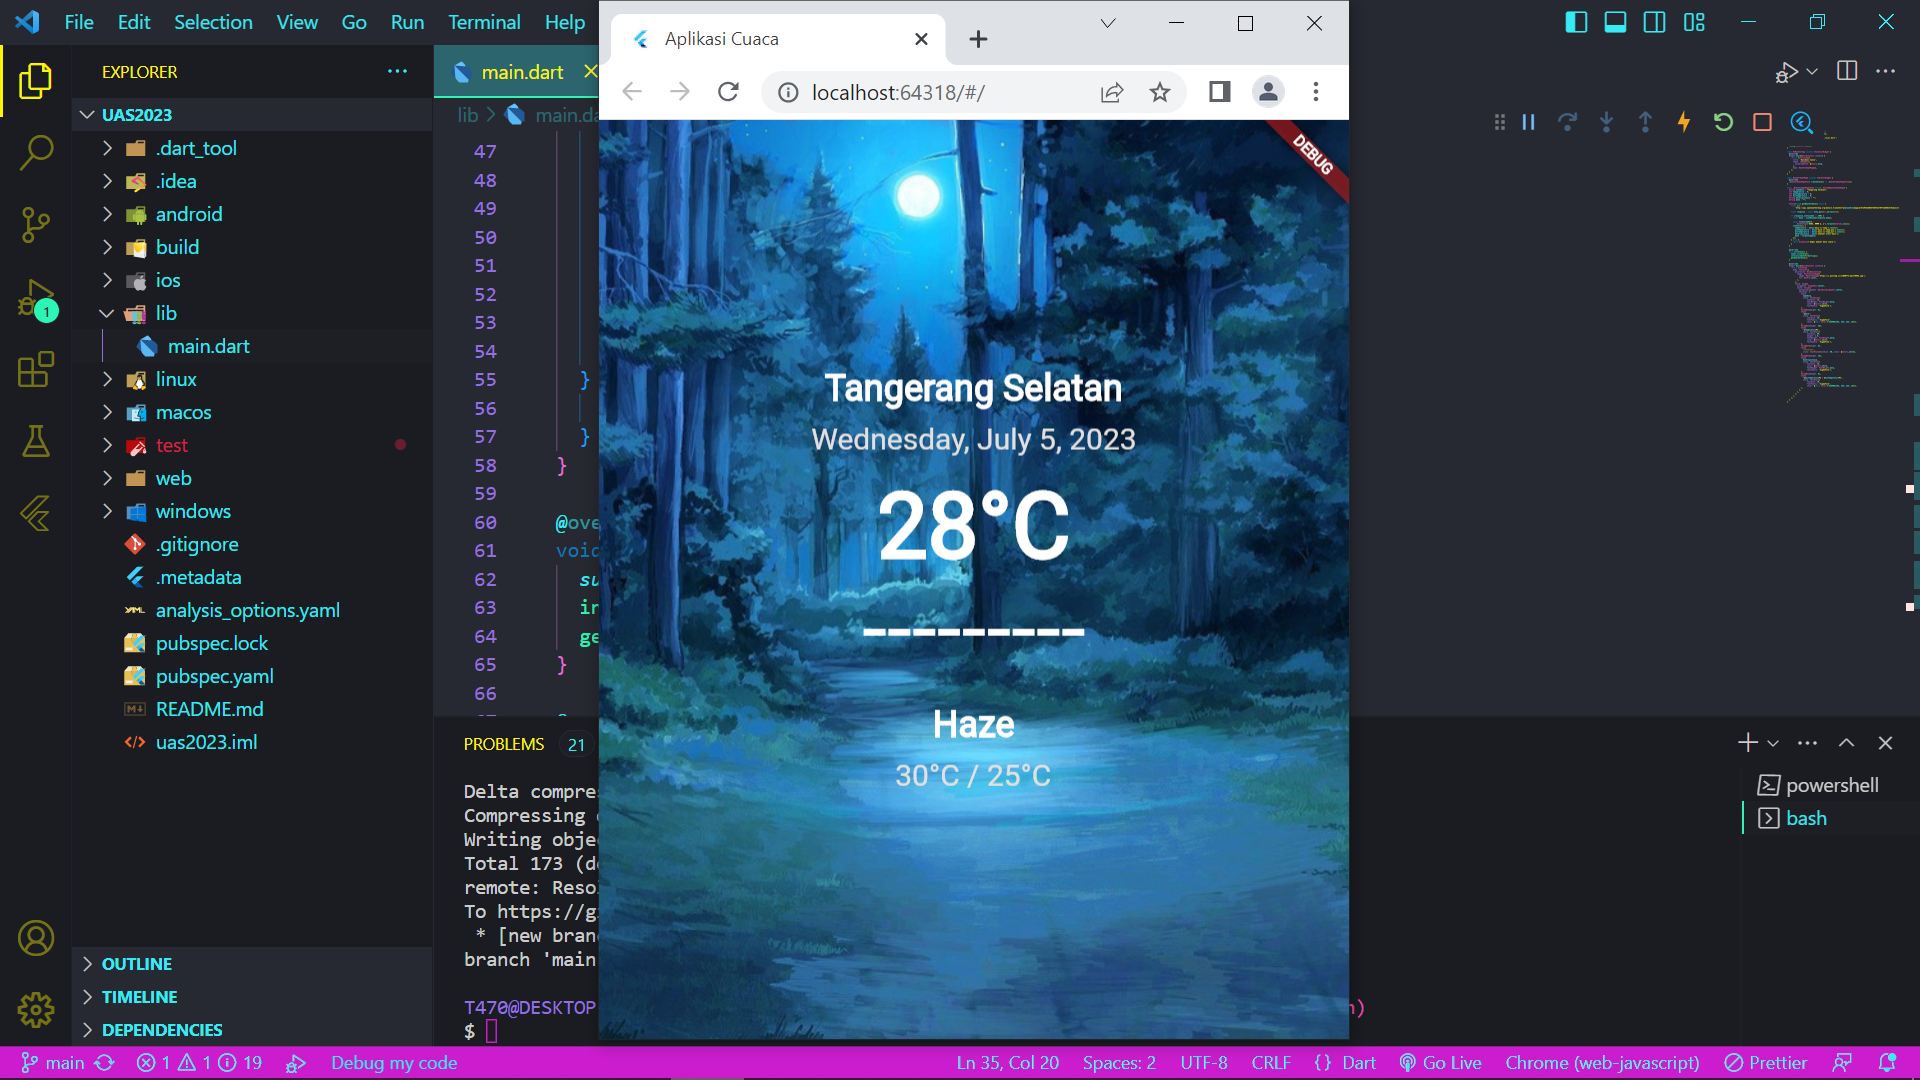
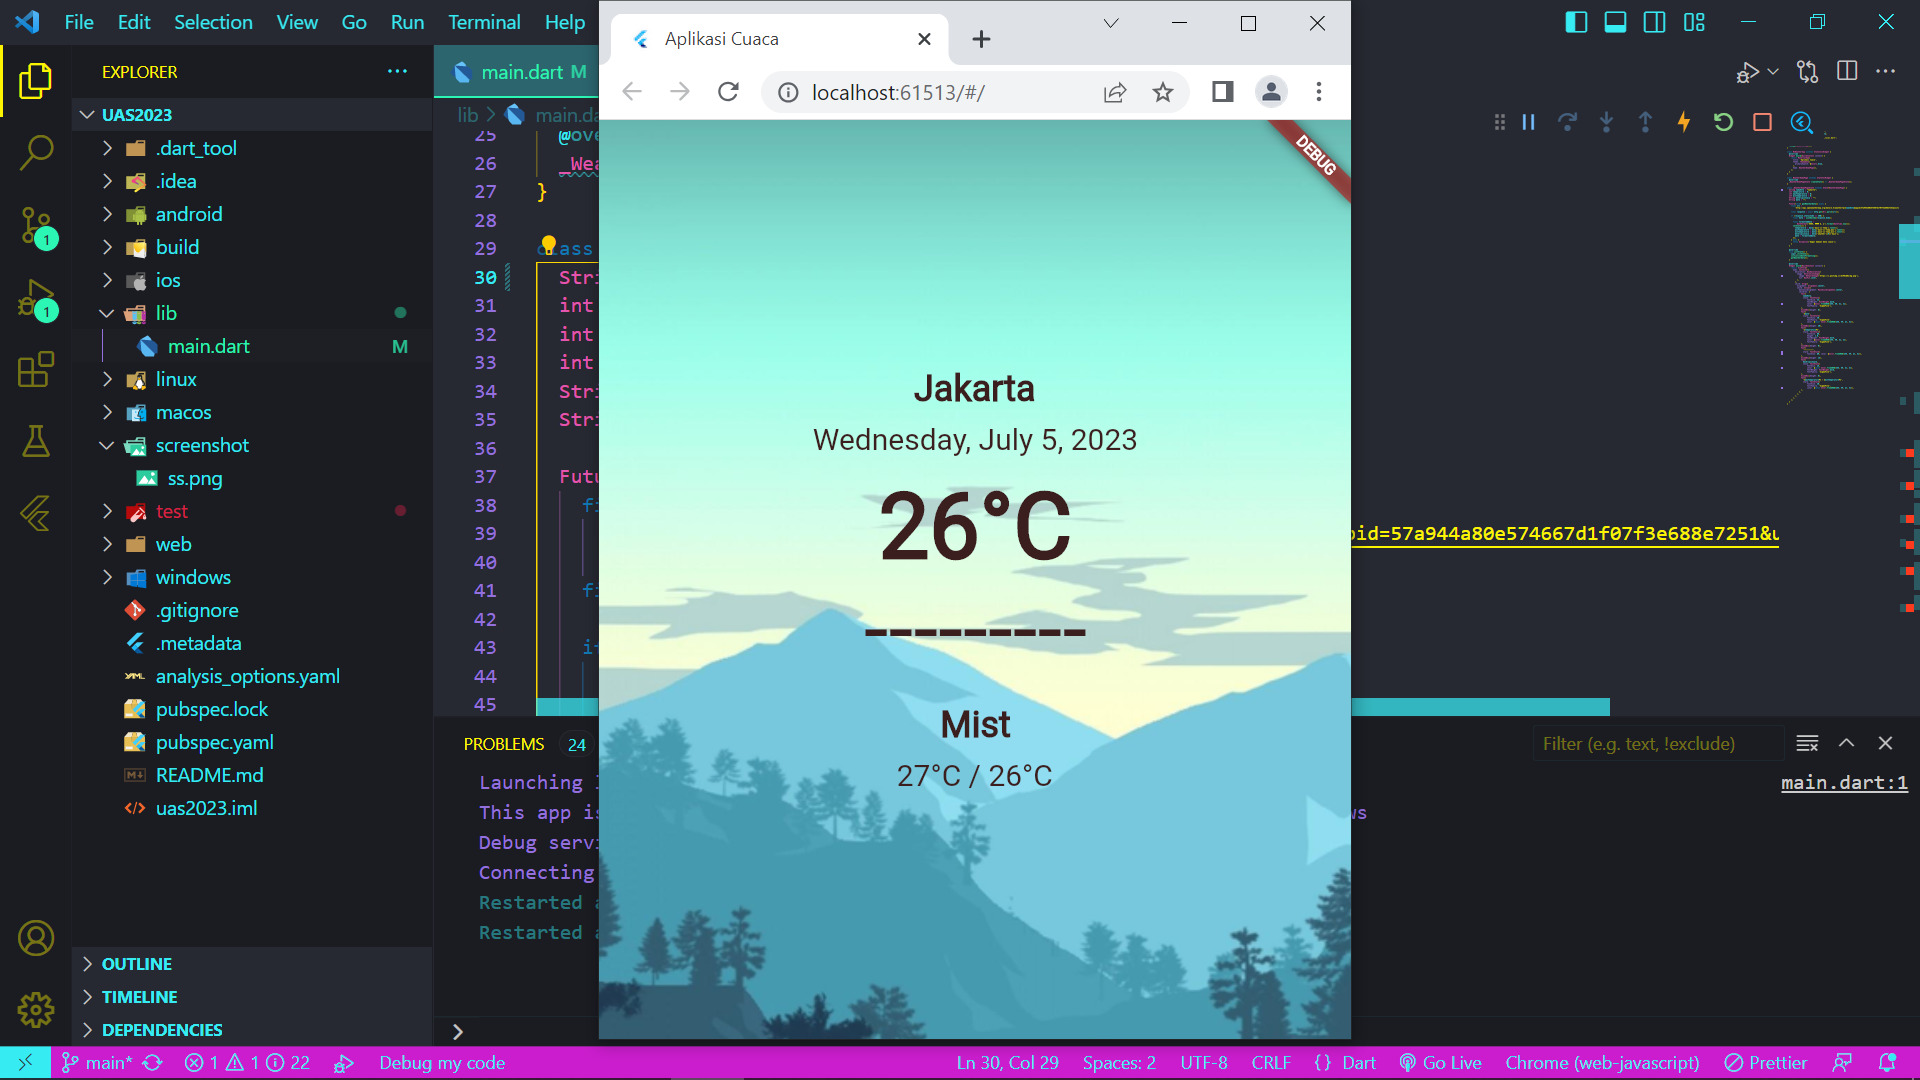
tampilan aplikasi

diff --git a/lib/main.dart b/lib/main.dart
@@ -27,7 +27,7 @@ class WeatherHomePage extends StatefulWidget {
 }
 
 class _WeatherHomePageState extends State<WeatherHomePage> {
-  String namaKota = "Tangerang Selatan";
+  String namaKota = "Jakarta";
   int temperature = 0;
   int maxTemperature = 0;
   int minTemperature = 0;
@@ -70,7 +70,7 @@ class _WeatherHomePageState extends State<WeatherHomePage> {
       body: Container(
         decoration: BoxDecoration(
           image: DecorationImage(
-            image: NetworkImage('https://i.postimg.cc/nzWD0YTC/wp7170402.jpg'),
+            image: NetworkImage('https://i.postimg.cc/d1PKxQDy/bg.png'),
             fit: BoxFit.cover,
           ),
         ),
@@ -84,7 +84,7 @@ class _WeatherHomePageState extends State<WeatherHomePage> {
                 style: TextStyle(
                     fontSize: 24,
                     fontWeight: FontWeight.bold,
-                    color: Colors.white,
+                    color: Color.fromARGB(255, 59, 31, 31),
                     fontFamily: 'SigmaFive'),
               ),
               SizedBox(height: 8),
@@ -93,7 +93,7 @@ class _WeatherHomePageState extends State<WeatherHomePage> {
                 style: TextStyle(
                     fontSize: 20,
                     fontFamily: 'SigmaFive',
-                    color: const Color.fromARGB(255, 228, 224, 224)),
+                    color: const Color.fromARGB(255, 59, 31, 31)),
               ),
               SizedBox(height: 20),
               Text(
@@ -102,20 +102,21 @@ class _WeatherHomePageState extends State<WeatherHomePage> {
                     fontSize: 60,
                     height: 1.0,
                     fontWeight: FontWeight.bold,
-                    color: Colors.white,
+                    color: Color.fromARGB(255, 59, 31, 31),
                     fontFamily: 'SigmaFive'),
               ),
               SizedBox(height: 0),
               Text(
                 '---------',
-                style: TextStyle(fontSize: 60, color: Colors.white),
+                style: TextStyle(
+                    fontSize: 60, color: Color.fromARGB(255, 59, 31, 31)),
               ),
               SizedBox(height: 15),
               Text(
                 deskripsiCuaca,
                 style: TextStyle(
                     fontSize: 24,
-                    color: Colors.white,
+                    color: const Color.fromARGB(255, 59, 31, 31),
                     fontWeight: FontWeight.bold,
                     fontFamily: 'SigmaFive'),
               ),
@@ -125,7 +126,7 @@ class _WeatherHomePageState extends State<WeatherHomePage> {
                 style: TextStyle(
                     fontSize: 20,
                     fontFamily: 'SigmaFive',
-                    color: const Color.fromARGB(255, 228, 224, 224)),
+                    color: const Color.fromARGB(255, 59, 31, 31)),
               ),
             ],
           ),
